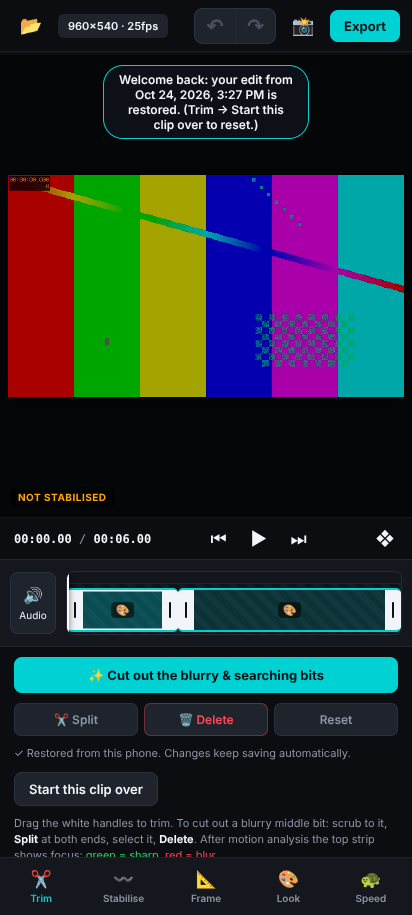
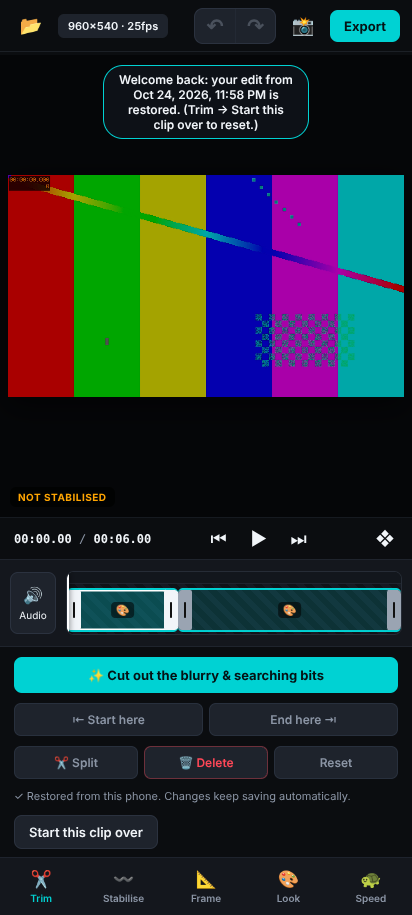
Trim by dragging the ends of a part; fine control; Start/End here (#15)
The white trim handles never really worked: the timeline was rebuilt on every move, which deleted
the handle under the finger, so a drag died after its first step (old code: a drag meant to move the
end 6.0 -> 3.0 s stopped at 5.6 s).

- Grab anywhere within ~26 px of a part's edge (no need to hit the small tab)
- Edge follows the finger; slide the finger up while dragging for up to 10x finer control
- Preview shows the frame at the edge; bubble shows the time and part length
- Buzz on grab and when the edge hits a limit (clip end, neighbouring part, minimum length)
- One drag = one undo step
- Start here / End here buttons trim to the playhead (with the frame-step buttons: frame-exact)
- test/trim_drag.py

Claude-Session: https://claude.ai/code/session_01HFpzo2B4sypAzveQUikzBj

diff --git a/js/app.js b/js/app.js
@@ -461,7 +461,7 @@ function updatePlayhead() {
   const pct = `${Math.max(0, Math.min(100, (state.mediaTime / state.clip.duration) * 100))}%`;
   playhead.style.left = pct; $('graphHead').style.left = pct;
   const k = segmentAt(state.segments, state.mediaTime), key = `${k}/${state.segments.length}`;
-  if (k >= 0 && key !== lastActiveKey) { lastActiveKey = key; state.sel = k; renderSegments(); syncPartControls(); }
+  if (k >= 0 && key !== lastActiveKey && !trimDrag) { lastActiveKey = key; state.sel = k; renderSegments(); syncPartControls(); }
   $('curTime').textContent = fmt(state.mediaTime);
 }
 function renderSegments() {
@@ -471,50 +471,131 @@ function renderSegments() {
   state.segments.forEach((seg, idx) => {
     const el = document.createElement('div');
     el.className = 'clip-segment' + (idx === state.sel ? ' selected' : '');
-    el.style.left = `${(seg.start / D) * 100}%`;
-    el.style.width = `${Math.max(((seg.end - seg.start) / D) * 100, 1.5)}%`;
     const hl = document.createElement('div'), hr = document.createElement('div');
-    hl.className = hr.className = 'seg-handle';
+    hl.className = 'seg-handle left'; hr.className = 'seg-handle right';
     el.append(hl, hr);
     const tags = [];
     if (seg.look) tags.push('🎨');
     if (seg.speed != null) tags.push(`${+seg.speed.toFixed(2)}×`);
     if (tags.length) { const bd = document.createElement('span'); bd.className = 'seg-badge'; bd.textContent = tags.join(' '); el.appendChild(bd); }
-    el.addEventListener('pointerdown', ev => {
-      if (ev.target !== el) return;
-      state.sel = idx; renderSegments();
-    });
-    handleDrag(hl, idx, true); handleDrag(hr, idx, false);
     segEl.appendChild(el);
   });
+  layoutSegments();
   renderScope();
 }
-function handleDrag(h, idx, left) {
-  h.addEventListener('pointerdown', ev => {
-    ev.stopPropagation(); pause(); state.sel = idx;
-    const rect = track.getBoundingClientRect(), D = state.clip.duration;
-    h.setPointerCapture(ev.pointerId);
-    const move = e => {
-      const t = Math.max(0, Math.min(1, (e.clientX - rect.left) / rect.width)) * D, seg = state.segments[idx];
-      if (left) { const lo = idx > 0 ? state.segments[idx - 1].end : 0; seg.start = Math.max(lo, Math.min(t, seg.end - 0.15)); seek(seg.start); }
-      else { const hi = idx < state.segments.length - 1 ? state.segments[idx + 1].start : D; seg.end = Math.min(hi, Math.max(t, seg.start + 0.15)); seek(seg.end - 0.01); }
-      renderSegments();
-    };
-    const up = () => { h.removeEventListener('pointermove', move); h.removeEventListener('pointerup', up); h.removeEventListener('pointercancel', up); invalidate(); };
-    h.addEventListener('pointermove', move); h.addEventListener('pointerup', up); h.addEventListener('pointercancel', up);
+// Position the segment boxes without rebuilding them (rebuilding mid-drag used to drop the finger's handle).
+function layoutSegments() {
+  const D = state.clip ? state.clip.duration : 0; if (!D) return;
+  [...segEl.children].forEach((el, idx) => {
+    const seg = state.segments[idx]; if (!seg) return;
+    el.style.left = `${(seg.start / D) * 100}%`;
+    el.style.width = `${Math.max(((seg.end - seg.start) / D) * 100, 0.6)}%`;
+    el.classList.toggle('selected', idx === state.sel);
   });
 }
+
+// ── Trim by dragging: grab near any segment edge (no need to hit the small tab exactly). The edge follows the
+// finger; slide the finger up off the timeline for fine control (up to 10× finer). The video shows the frame at
+// the edge, and a bubble shows the time. Lifting the finger is one undo step.
+const EDGE_GRAB_PX = 26, MIN_LEN = 0.15;
+function edgeNear(clientX) {
+  const rect = track.getBoundingClientRect(), D = state.clip.duration, px = t => rect.left + (t / D) * rect.width;
+  let best = null;
+  state.segments.forEach((sg, idx) => {
+    for (const left of [true, false]) {
+      const d = Math.abs(clientX - px(left ? sg.start : sg.end));
+      // ties (narrow parts, touching parts): prefer the selected part, then the edge on the side the finger is
+      const bias = (idx === state.sel ? -3 : 0) + ((left ? clientX >= px(sg.start) : clientX <= px(sg.end)) ? -2 : 0);
+      if (d <= EDGE_GRAB_PX && (!best || d + bias < best.score)) best = { idx, left, score: d + bias };
+    }
+  });
+  return best;
+}
+let trimDrag = null, trimSeekQueued = false;
+function trimBubble(show) {
+  const b = $('trimBubble');
+  if (!show || !trimDrag) { b.style.display = 'none'; return; }
+  const sg = state.segments[trimDrag.idx], t = trimDrag.left ? sg.start : sg.end, D = state.clip.duration;
+  const r = track.getBoundingClientRect(), sec = track.parentElement.getBoundingClientRect();
+  b.style.display = 'block';
+  b.innerHTML = `${trimDrag.left ? 'Start' : 'End'} <b>${fmt(t)}</b> · part ${(sg.end - sg.start).toFixed(1)} s${trimDrag.fine > 1.5 ? ` · fine ×${Math.round(trimDrag.fine)}` : '<br><span>slide up for fine control</span>'}`;
+  const x = r.left - sec.left + (t / D) * r.width, half = b.offsetWidth / 2 + 6;
+  b.style.left = `${Math.max(half, Math.min(sec.width - half, x))}px`;
+  segEl.querySelectorAll('.seg-handle.active').forEach(h => h.classList.remove('active'));
+  const el = segEl.children[trimDrag.idx]; if (el) el.querySelector(trimDrag.left ? '.seg-handle.left' : '.seg-handle.right').classList.add('active');
+}
+function startTrim(ev, hit) {
+  ev.preventDefault(); pause();
+  const sg = state.segments[hit.idx];
+  state.sel = hit.idx; layoutSegments(); syncPartControls();
+  trimDrag = { id: ev.pointerId, idx: hit.idx, left: hit.left, x0: ev.clientX, y0: ev.clientY, t0: hit.left ? sg.start : sg.end, lastX: ev.clientX, t: hit.left ? sg.start : sg.end, fine: 1, atLimit: false };
+  track.classList.add('trimming');
+  try { track.setPointerCapture(ev.pointerId); } catch (e) { /* fine */ }
+  try { navigator.vibrate && navigator.vibrate(8); } catch (e) { /* not allowed */ }
+  seek(trimDrag.left ? trimDrag.t : trimDrag.t - 0.01); trimBubble(true);
+}
+function moveTrim(e) {
+  const d = trimDrag; if (!d || e.pointerId !== d.id) return;
+  const rect = track.getBoundingClientRect(), D = state.clip.duration, perPx = D / rect.width;
+  // fine control: the further above the timeline the finger is, the slower the edge moves
+  const up = Math.max(0, rect.top - e.clientY);
+  d.fine = Math.min(10, 1 + up / 30);
+  d.t += (e.clientX - d.lastX) * perPx / d.fine; d.lastX = e.clientX;
+  const sg = state.segments[d.idx];
+  let lo, hi;
+  if (d.left) { lo = d.idx > 0 ? state.segments[d.idx - 1].end : 0; hi = sg.end - MIN_LEN; }
+  else { lo = sg.start + MIN_LEN; hi = d.idx < state.segments.length - 1 ? state.segments[d.idx + 1].start : D; }
+  const t = Math.max(lo, Math.min(hi, d.t)), hit = t !== d.t;
+  if (hit && !d.atLimit) { try { navigator.vibrate && navigator.vibrate(15); } catch (er) { /* not allowed */ } }
+  d.atLimit = hit; d.t = t;
+  if (d.left) sg.start = t; else sg.end = t;
+  layoutSegments(); trimBubble(true);
+  if (!trimSeekQueued) { trimSeekQueued = true; requestAnimationFrame(() => { trimSeekQueued = false; if (trimDrag) { const s2 = state.segments[trimDrag.idx]; seek(trimDrag.left ? s2.start : s2.end - 0.01); } }); }
+}
+function endTrim(e) {
+  const d = trimDrag; if (!d || (e && e.pointerId !== d.id)) return;
+  trimDrag = null; track.classList.remove('trimming'); trimBubble(false);
+  renderSegments(); invalidate(); clearUndo(); syncPartControls();
+}
 track.addEventListener('pointerdown', ev => {
-  if (!state.clip || ev.target.classList.contains('seg-handle')) return;
+  if (!state.clip) return;
+  const hit = edgeNear(ev.clientX);
+  if (hit) return startTrim(ev, hit);
   pause();
   const rect = track.getBoundingClientRect();
   const scrub = x => seek(Math.max(0, Math.min(1, (x - rect.left) / rect.width)) * state.clip.duration);
   scrub(ev.clientX);
   track.setPointerCapture(ev.pointerId);
   const move = e => scrub(e.clientX);
-  const up = () => { track.removeEventListener('pointermove', move); track.removeEventListener('pointerup', up); };
-  track.addEventListener('pointermove', move); track.addEventListener('pointerup', up);
+  const up = () => { track.removeEventListener('pointermove', move); track.removeEventListener('pointerup', up); track.removeEventListener('pointercancel', up); };
+  track.addEventListener('pointermove', move); track.addEventListener('pointerup', up); track.addEventListener('pointercancel', up);
 });
+window.addEventListener('pointermove', moveTrim, true);
+window.addEventListener('pointerup', endTrim, true);
+window.addEventListener('pointercancel', endTrim, true);
+
+// Precise trimming: put the playhead on the exact frame (scrub, then ⏮ ⏭ for single frames) and tap.
+function trimHere(left) {
+  if (!state.clip) return;
+  const t = state.mediaTime, S = state.segments, D = state.clip.duration;
+  let i = S.findIndex(s => t >= s.start && t <= s.end);
+  if (i < 0) i = left ? S.findIndex(s => s.start > t) : S.map(s => s.end < t).lastIndexOf(true);   // in a cut-out gap: extend the neighbour
+  if (i < 0) return;
+  const sg = S[i];
+  if (left) {
+    const lo = i > 0 ? S[i - 1].end : 0;
+    if (sg.end - t < MIN_LEN) return toast('That would leave almost nothing. Move the playhead earlier', 1800);
+    sg.start = Math.max(lo, t);
+  } else {
+    const hi = i < S.length - 1 ? S[i + 1].start : D;
+    if (t - sg.start < MIN_LEN) return toast('That would leave almost nothing. Move the playhead later', 1800);
+    sg.end = Math.min(hi, t);
+  }
+  state.sel = i; renderSegments(); invalidate(); clearUndo(); syncPartControls();
+  toast(`${left ? 'Starts' : 'Ends'} at ${fmt(left ? sg.start : sg.end)}`, 1200);
+}
+$('btnStartHere').onclick = () => trimHere(true);
+$('btnEndHere').onclick = () => trimHere(false);
 $('btnSplit').onclick = () => {
   if (!state.clip) return;
   const t = state.mediaTime, i = state.segments.findIndex(s => t > s.start + 0.1 && t < s.end - 0.1);

diff --git a/index.html b/index.html
@@ -6,7 +6,7 @@
   <meta name="theme-color" content="#0b0d10" />
   <title>MacroCut</title>
   <link rel="manifest" href="manifest.json" />
-  <link rel="stylesheet" href="css/app.css?v=16" />
+  <link rel="stylesheet" href="css/app.css?v=17" />
   <script src="vendor/mp4box.all.min.js"></script>
   <script src="vendor/mp4-muxer.js"></script>
 </head>
@@ -60,6 +60,7 @@
       <div id="segments"></div>
       <div id="playhead"></div>
     </div>
+    <div class="trim-bubble" id="trimBubble"></div>
   </div>
 
   <div class="controls-drawer">
@@ -67,13 +68,17 @@
     <div class="tab-pane active" id="tab-trim">
       <button class="btn-primary" id="btnAutoTrim" style="padding:10px">✨ Cut out the blurry &amp; searching bits</button>
       <div class="pill-group">
+        <button class="pill-btn" id="btnStartHere">⇤ Start here</button>
+        <button class="pill-btn" id="btnEndHere">End here ⇥</button>
+      </div>
+      <div class="pill-group">
         <button class="pill-btn" id="btnSplit">✂ Split</button>
         <button class="pill-btn danger" id="btnDelete">🗑 Delete</button>
         <button class="pill-btn" id="btnResetCuts">Reset</button>
       </div>
       <div class="hint" id="saveState">Your edits save automatically on this phone. Open the same clip again to carry on.</div>
       <button class="btn-ghost" id="btnStartOver" style="align-self:flex-start">Start this clip over</button>
-      <div class="hint">Drag the white handles to trim. To cut out a blurry middle bit: scrub to it, <b>Split</b> at both ends, select it, <b>Delete</b>. After motion analysis the top strip shows focus: <span style="color:var(--good)">green = sharp</span>, <span style="color:var(--danger)">red = blur</span>.</div>
+      <div class="hint"><b>Trim:</b> drag near either end of a part. Slide your finger up while dragging for fine control. Or move the playhead to the exact frame (⏮ ⏭ step one frame) and tap <b>Start here</b> / <b>End here</b>. To cut out a blurry middle bit: scrub to it, <b>Split</b> at both ends, select it, <b>Delete</b>. After motion analysis the top strip shows focus: <span style="color:var(--good)">green = sharp</span>, <span style="color:var(--danger)">red = blur</span>.</div>
     </div>
 
     <!-- STABILISE -->
@@ -247,6 +252,6 @@
   </div>
 
   <video id="video" playsinline muted preload="auto" style="position:fixed;left:-9999px;top:-9999px;width:2px;height:2px;opacity:0;pointer-events:none"></video>
-  <script type="module" src="js/app.js?v=16"></script>
+  <script type="module" src="js/app.js?v=17"></script>
 </body>
 </html>

diff --git a/css/app.css b/css/app.css
@@ -88,7 +88,7 @@ button { font: inherit; color: inherit; }
 .transport-mid, .transport-right { display: flex; align-items: center; gap: 2px; }
 
 .timeline-section {
-  height: 88px; background: var(--bg-panel); border-top: 1px solid #1f242d; border-bottom: 1px solid #1f242d;
+  position: relative; height: 88px; background: var(--bg-panel); border-top: 1px solid #1f242d; border-bottom: 1px solid #1f242d;
   display: flex; align-items: center; padding: 0 10px; gap: 10px; flex-shrink: 0;
 }
 .mute-track-btn {
@@ -235,3 +235,18 @@ details#stabMore summary { font-size: 13px; color: var(--text-muted); cursor: po
 /* Export: last finished video, always one tap away */
 .last-export { display: flex; flex-direction: column; gap: 6px; padding: 10px; border: 1px solid var(--accent); border-radius: 9px; background: var(--accent-dim); }
 .last-export .hint { color: var(--text-main); }
+
+/* Trim handles: bigger, grabbable anywhere near the edge (hit-testing is done in JS) */
+.clip-segment { overflow: visible; }
+.seg-handle { width: 14px; border-radius: 4px; pointer-events: none; }
+.seg-handle.left { border-radius: 4px 2px 2px 4px; }
+.seg-handle.right { border-radius: 2px 4px 4px 2px; }
+.clip-segment:not(.selected) .seg-handle { background: #9aa4b2; }
+#track.trimming .seg-handle.active { background: var(--accent); }
+.trim-bubble {
+  display: none; position: absolute; bottom: calc(100% + 6px); transform: translateX(-50%); z-index: 30; pointer-events: none;
+  background: rgba(10,12,16,0.92); border: 1px solid var(--accent); color: var(--text-main); border-radius: 8px;
+  padding: 5px 9px; font-size: 12px; text-align: center; white-space: nowrap; font-variant-numeric: tabular-nums;
+}
+.trim-bubble b { color: var(--accent); }
+.trim-bubble span { color: var(--text-muted); font-size: 11px; }

diff --git a/sw.js b/sw.js
@@ -1,6 +1,6 @@
 // Network-first (new commits show up immediately), falling back to cache so the app also works offline in the field.
-const CACHE = 'macrocut-v16';
-const SHELL = ['./', './index.html', './css/app.css?v=16', './js/app.js?v=16', './js/core.js', './js/gpu.js', './js/media.js', './js/engine.js', './js/track-worker.js', './js/store.js', './js/look.js',
+const CACHE = 'macrocut-v17';
+const SHELL = ['./', './index.html', './css/app.css?v=17', './js/app.js?v=17', './js/core.js', './js/gpu.js', './js/media.js', './js/engine.js', './js/track-worker.js', './js/store.js', './js/look.js',
   './vendor/mp4box.all.min.js', './vendor/mp4-muxer.js', './manifest.json'];
 
 self.addEventListener('install', e => {

diff --git a/test/trim_drag.py b/test/trim_drag.py
@@ -1,0 +1,73 @@
+"""Trim by dragging: the edge follows the whole drag (it used to die after the first move), grabbing near the
+edge works, sliding up gives fine control, edges stop at limits, one drag = one undo step, Start/End here buttons.
+Usage: trim_drag.py clip.mp4"""
+import asyncio, os, sys, json
+os.environ.setdefault('PLAYWRIGHT_BROWSERS_PATH', '/opt/pw-browsers')
+from playwright.async_api import async_playwright
+CLIP = sys.argv[1]
+S = 'window.__macrocut.state'
+
+async def main():
+    fails = []
+    def check(name, ok):
+        print(('PASS ' if ok else 'FAIL ') + name)
+        if not ok: fails.append(name)
+    async with async_playwright() as p:
+        b = await p.chromium.launch(args=['--use-gl=angle', '--use-angle=swiftshader', '--enable-unsafe-swiftshader'])
+        pg = await (await b.new_context(viewport={'width': 412, 'height': 915})).new_page(); errs = []
+        pg.on('pageerror', lambda e: errs.append(str(e)))
+        await pg.goto('http://localhost:8765/app/index.html'); await pg.evaluate('localStorage.clear(); indexedDB.deleteDatabase("macrocut")'); await pg.reload()
+        await pg.set_input_files('#fileInput', CLIP)
+        await pg.wait_for_function(f'{S}.clip', timeout=60000); await pg.wait_for_timeout(800)
+        D = await pg.evaluate(f'{S}.clip.duration')
+        segs = lambda: pg.evaluate(f'{S}.segments.map(s => [s.start, s.end])')
+        box = await pg.locator('#track').bounding_box(); y = box['y'] + box['height'] * 0.6
+        X = lambda t: box['x'] + box['width'] * t / D
+        settle = lambda: pg.wait_for_timeout(700)
+        async def drag(x0, x1, y1=None, steps=12):
+            await pg.mouse.move(x0, y); await pg.mouse.down()
+            for k in range(1, steps + 1):
+                await pg.mouse.move(x0 + (x1 - x0) * k / steps, y + ((y1 if y1 is not None else y) - y) * k / steps); await pg.wait_for_timeout(30)
+            bubble = await pg.is_visible('#trimBubble'); btxt = await pg.inner_text('#trimBubble') if bubble else ''
+            await pg.mouse.up(); await settle(); return bubble, btxt
+        # 1. end handle all the way to the middle, many small moves
+        bub, txt = await drag(X(D) - 7, X(D / 2))
+        s = await segs(); print('  after end drag:', s, '| bubble:', txt.replace('\n', ' '))
+        check(f'end follows the whole drag (end {s[0][1]:.2f} ≈ {D/2:.2f})', abs(s[0][1] - D / 2) < D * 0.03)
+        check('time bubble shows while dragging', bub and 'End' in txt)
+        check('bubble hides after', not await pg.is_visible('#trimBubble'))
+        check('preview shows the edge frame', abs(await pg.evaluate(f'{S}.mediaTime') - s[0][1]) < 0.1)
+        # 2. grab 20 px inside the start edge (not on the tab) and drag right
+        await drag(X(0) + 20, X(D * 0.2) + 20)
+        s = await segs(); check(f'grab near the edge works (start {s[0][0]:.2f} ≈ {D*0.2:.2f})', abs(s[0][0] - D * 0.2) < D * 0.03)
+        # 3. fine control: same 100 px finger move with the finger 300 px above → ~10× less
+        e0 = (await segs())[0][1]
+        await pg.mouse.move(X(e0), y); await pg.mouse.down(); await pg.mouse.move(X(e0), y - 300, steps=6)
+        for k in range(1, 11): await pg.mouse.move(X(e0) - 10 * k, y - 300); await pg.wait_for_timeout(30)
+        await pg.mouse.up(); await settle()
+        e1 = (await segs())[0][1]; coarse = 100 * D / box['width']
+        check(f'fine control slows the edge ({e0 - e1:.3f} s vs {coarse:.3f} s coarse)', 0 < e0 - e1 < coarse * 0.2)
+        # 4. limits: drag start past the end
+        s = await segs(); await drag(X(s[0][0]), X(D) + 50)
+        s = await segs(); check(f'start stops before the end ({s[0][1] - s[0][0]:.2f} s left)', 0.1 < s[0][1] - s[0][0] < 0.3)
+        # 5. undo walks back one drag at a time
+        await pg.click('#btnUndo'); await settle()
+        s2 = await segs(); check('undo restores the previous drag only', abs(s2[0][1] - e1) < 1e-6 and s2[0][0] < s2[0][1] - 1)
+        # 6. Start here / End here
+        await pg.evaluate('window.__macrocut.seek(1.0)'); await pg.wait_for_timeout(200); await pg.click('#btnStartHere'); await settle()
+        await pg.evaluate('window.__macrocut.seek(2.5)'); await pg.wait_for_timeout(200); await pg.click('#btnEndHere'); await settle()
+        s = await segs(); check(f'Start/End here ({s})', abs(s[0][0] - 1.0) < 0.05 and abs(s[0][1] - 2.5) < 0.05)
+        # 7. with two parts, dragging one part's edge can't cross the other
+        await pg.click('#btnResetCuts'); await settle()
+        await pg.evaluate('window.__macrocut.seek(3.0)'); await pg.wait_for_timeout(200); await pg.click('#btnSplit'); await settle()
+        await pg.evaluate('window.__macrocut.seek(1.0)'); await pg.wait_for_timeout(200); await pg.click('#btnDelete'); await settle()
+        s = await segs(); print('  two-part setup:', s)
+        await pg.click('#btnResetCuts'); await settle()
+        await pg.evaluate(f'{S}.segments = [{{start: 0, end: 2}}, {{start: 3, end: {D}}}]; window.__macrocut.seek(1)'); await pg.wait_for_timeout(300)
+        await drag(X(2), X(4.5))
+        s = await segs(); check(f'edge stops at the next part ({s[0][1]:.2f} ≤ 3)', abs(s[0][1] - 3) < 0.02 and len(s) == 2)
+        check('no page errors', not errs); print('  errors:', errs)
+        if os.environ.get('SHOT'): await pg.screenshot(path=os.environ['SHOT'])
+        await b.close()
+    print('ALL PASS' if not fails else f'{len(fails)} FAILED')
+asyncio.run(main())

diff --git a/README.md b/README.md
@@ -13,6 +13,8 @@ A phone-first video editor for handheld macro footage (jumping spiders, mostly).
 5. **Export** → Render MP4 → Save / Share. Slowed parts get smooth slow motion (Speed tab switch, on by default). Tick **✨ Extra clean** for grainy (low-light) footage.
 6. **📸** → *Find the sharpest shots* for full-resolution stills (for iNaturalist), or save the current frame. **Stack this moment** fuses the frames within ±0.3 s into one still, taking each region from whichever frame had it sharpest (tap the result to compare with the single frame).
 
+**Trimming:** drag near either end of a part (slide your finger up while dragging for up to 10× finer control), or put the playhead on the exact frame and tap **Start here** / **End here**.
+
 **↶ / ↷** (top bar, or Ctrl+Z / Ctrl+Shift+Z) undo and redo any edit: cuts, looks, framing, speed, stabilise settings. One slider drag or pinch is one step; the shake measurement is never thrown away.
 
 Your edit saves automatically on the phone; open the same clip again and it's all back (Trim → *Start this clip over* to reset).
